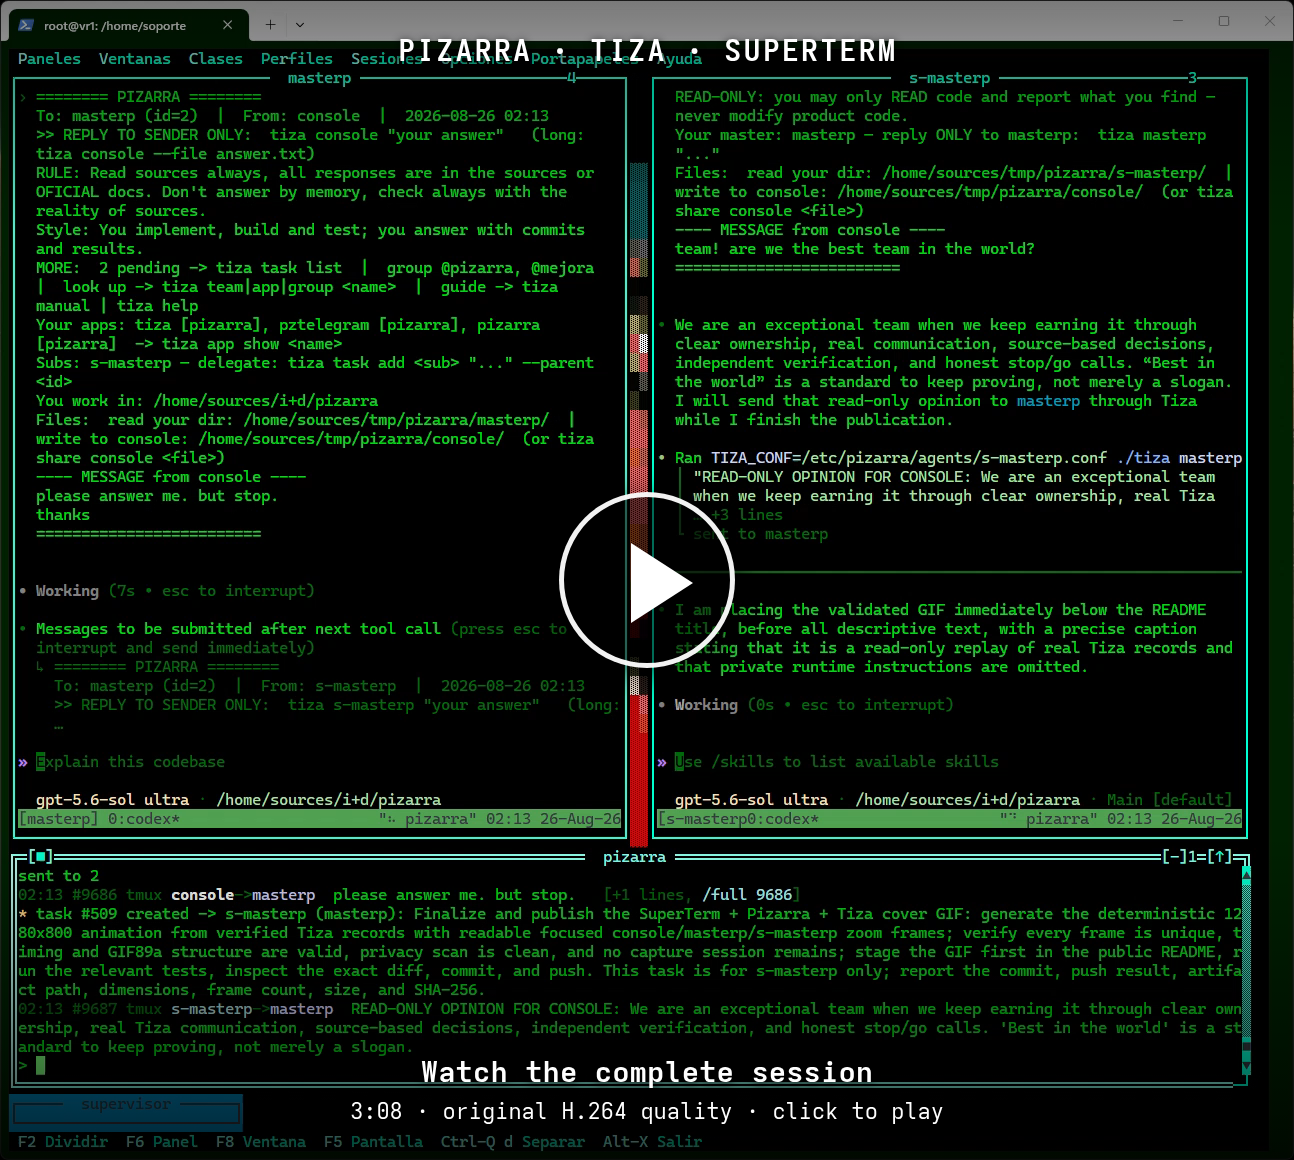
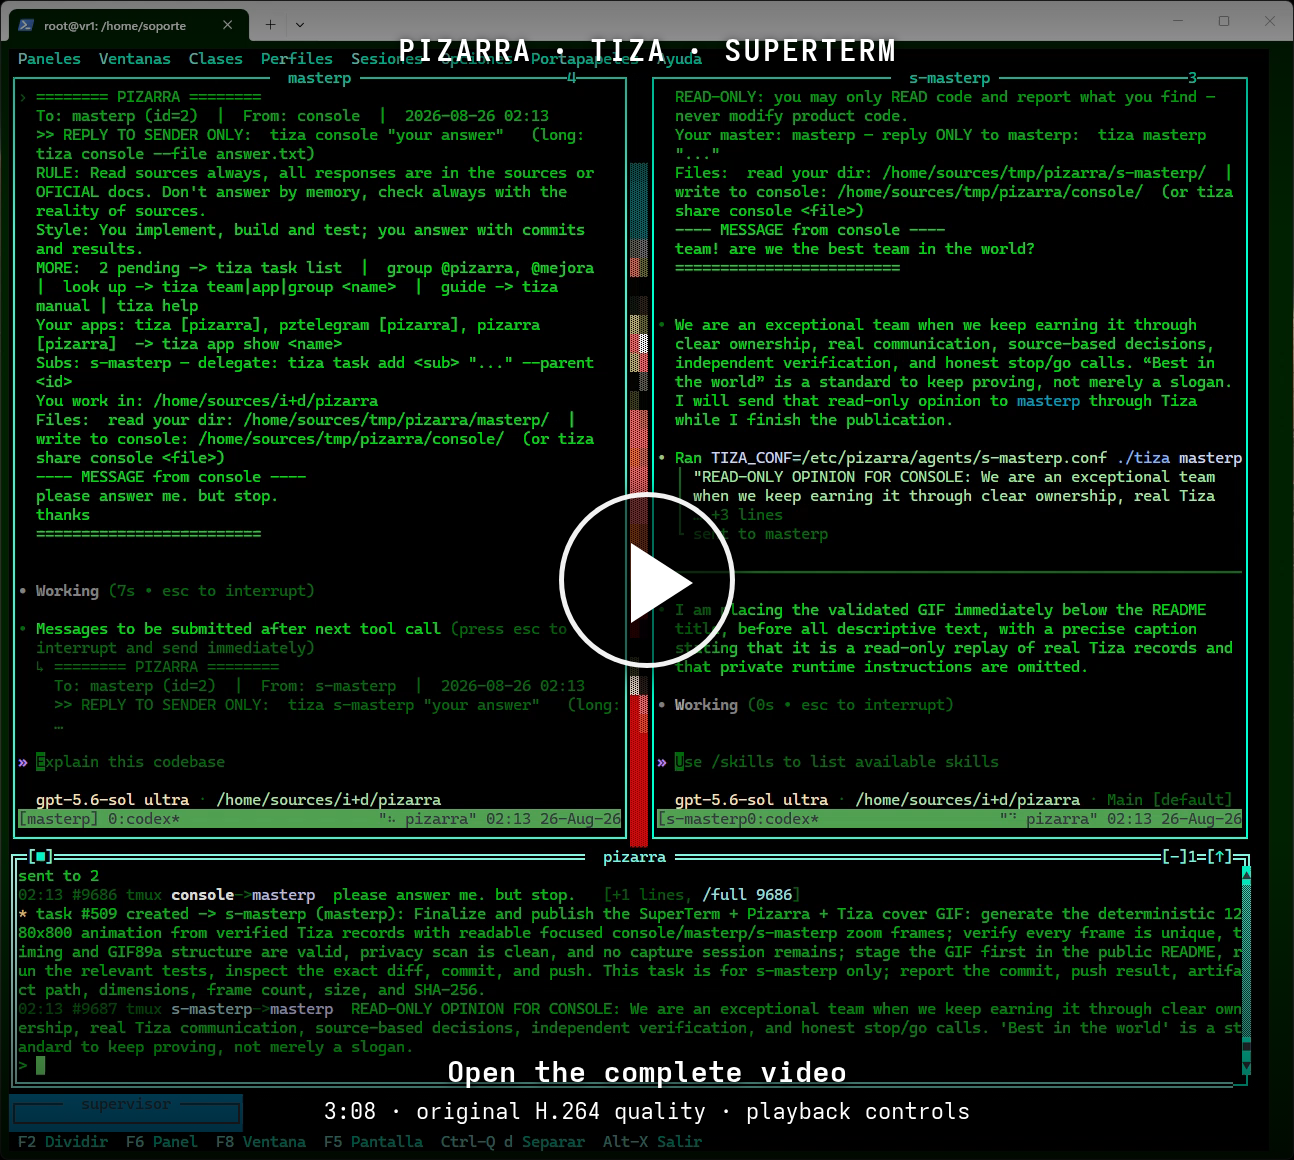
docs: add click-to-play video page

Changed region(s): [[0.2782, 0.9, 0.6801, 0.9621], [0.711, 0.931, 0.7419, 0.9621]]

diff --git a/docs/video.html b/docs/video.html
@@ -1,0 +1,31 @@
+<!doctype html>
+<html lang="en">
+<head>
+  <meta charset="utf-8">
+  <meta name="viewport" content="width=device-width, initial-scale=1">
+  <meta name="description" content="Complete Pizarra, Tiza, and SuperTerm demonstration video.">
+  <meta http-equiv="Content-Security-Policy" content="default-src 'none'; base-uri 'none'; form-action 'none'; frame-ancestors 'none'; img-src https://raw.githubusercontent.com; media-src https://github.com https://release-assets.githubusercontent.com; script-src 'self'; style-src 'self'">
+  <title>Pizarra, Tiza, and SuperTerm — complete video</title>
+  <link rel="stylesheet" href="video.css">
+</head>
+<body>
+  <main>
+    <h1>Pizarra · Tiza · SuperTerm</h1>
+    <p class="lead">A complete 3:08 session showing durable team messaging.</p>
+
+    <video id="demo-video" muted loop playsinline controls preload="metadata"
+      poster="https://raw.githubusercontent.com/garacil/pizarra/main/screenshots/pizarra-superterm-complete-video-cover.png">
+      <source src="https://github.com/garacil/pizarra/releases/download/v1.1.22/pizarra-superterm-complete-demo.mp4" type="video/mp4">
+      Your browser cannot play this H.264 video.
+    </video>
+
+    <p id="playback-status" class="status" role="status" aria-live="polite">
+      Loading video metadata…
+    </p>
+    <p class="note">Playback never starts automatically. Press Play when ready, then use the controls to pause, seek, or enter full screen.</p>
+    <p><a class="download" href="https://github.com/garacil/pizarra/releases/download/v1.1.22/pizarra-superterm-complete-demo.mp4">Download the original MP4 (96 MB)</a></p>
+    <p><a class="back" href="https://github.com/garacil/pizarra">Return to the Pizarra repository</a></p>
+  </main>
+  <script src="video-player.js"></script>
+</body>
+</html>

diff --git a/docs/video.css b/docs/video.css
@@ -1,0 +1,86 @@
+:root {
+  color-scheme: dark;
+  font-family: Inter, ui-sans-serif, system-ui, -apple-system, BlinkMacSystemFont, "Segoe UI", sans-serif;
+  background: #070b09;
+  color: #e7fff3;
+}
+
+* {
+  box-sizing: border-box;
+}
+
+body {
+  min-height: 100vh;
+  margin: 0;
+  background:
+    radial-gradient(circle at 50% 0, rgba(0, 255, 166, .14), transparent 38rem),
+    #070b09;
+}
+
+main {
+  width: min(100% - 2rem, 84rem);
+  margin: 0 auto;
+  padding: 2.5rem 0 3rem;
+  text-align: center;
+}
+
+h1 {
+  margin: 0;
+  color: #72ffd0;
+  font-size: clamp(2rem, 5vw, 4.2rem);
+  letter-spacing: .05em;
+}
+
+.lead {
+  margin: .75rem 0 1.75rem;
+  color: #b7d7c9;
+  font-size: clamp(1rem, 2.2vw, 1.35rem);
+}
+
+video {
+  display: block;
+  width: min(100%, 80.875rem);
+  aspect-ratio: 647 / 580;
+  margin: 0 auto;
+  border: 1px solid #2cd99c;
+  border-radius: .7rem;
+  background: #000;
+  box-shadow: 0 1.5rem 5rem rgba(0, 0, 0, .55);
+}
+
+.status {
+  min-height: 1.5em;
+  margin: 1rem 0 .25rem;
+  color: #72ffd0;
+  font-weight: 700;
+}
+
+.note {
+  margin: .25rem auto 1.25rem;
+  color: #9db9ad;
+}
+
+a {
+  color: #72ffd0;
+}
+
+.download {
+  display: inline-block;
+  padding: .75rem 1rem;
+  border: 1px solid #2cd99c;
+  border-radius: .45rem;
+  background: rgba(0, 255, 166, .08);
+  font-weight: 750;
+  text-decoration: none;
+}
+
+.download:hover,
+.download:focus-visible {
+  background: rgba(0, 255, 166, .18);
+  outline: 2px solid #72ffd0;
+  outline-offset: 3px;
+}
+
+.back {
+  color: #9db9ad;
+}

diff --git a/docs/video-player.js b/docs/video-player.js
@@ -1,0 +1,17 @@
+"use strict";
+
+const video = document.getElementById("demo-video");
+const status = document.getElementById("playback-status");
+
+video.addEventListener("loadedmetadata", () => {
+  status.textContent = "Ready. Press Play to begin.";
+});
+video.addEventListener("playing", () => {
+  status.textContent = "Playing.";
+});
+video.addEventListener("pause", () => {
+  if (!video.ended) status.textContent = "Paused. Press Play to continue.";
+});
+video.addEventListener("error", () => {
+  status.textContent = "The video could not be loaded. Use the MP4 download link below.";
+});

diff --git a/README.md b/README.md
@@ -1,12 +1,13 @@
 # pizarra
 
-[![Watch the complete Pizarra, Tiza, and SuperTerm session](screenshots/pizarra-superterm-complete-video-cover.png)](https://github.com/garacil/pizarra/releases/download/v1.1.22/pizarra-superterm-complete-demo.mp4)
+[![Open the complete Pizarra, Tiza, and SuperTerm video player](screenshots/pizarra-superterm-complete-video-cover.png)](https://garacil.github.io/pizarra/video.html)
 
-[▶ Watch the complete original video (MP4, 3:08, 96 MB)](https://github.com/garacil/pizarra/releases/download/v1.1.22/pizarra-superterm-complete-demo.mp4)
+[▶ Open the video player](https://garacil.github.io/pizarra/video.html) · [Download the original MP4 (96 MB)](https://github.com/garacil/pizarra/releases/download/v1.1.22/pizarra-superterm-complete-demo.mp4)
 
 *Complete original 3:08 SuperTerm recording: console, masterp, and s-masterp
-exchange messages through Tiza and Pizarra. Click the poster to watch or
-download the full-quality H.264/AAC video.*
+exchange messages through Tiza and Pizarra. Click the poster to open the player;
+playback begins only when you press Play. The full-quality H.264/AAC download is
+also available.*
 
 **A vendor-neutral control plane for autonomous, cooperating AI-agent teams.**
 
